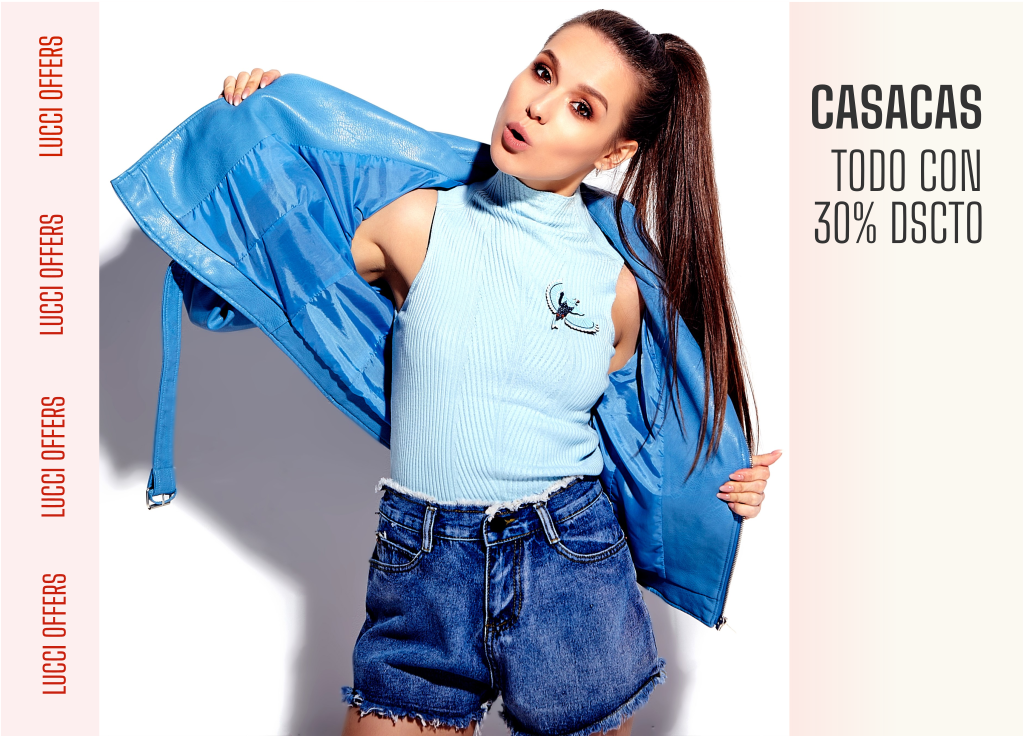
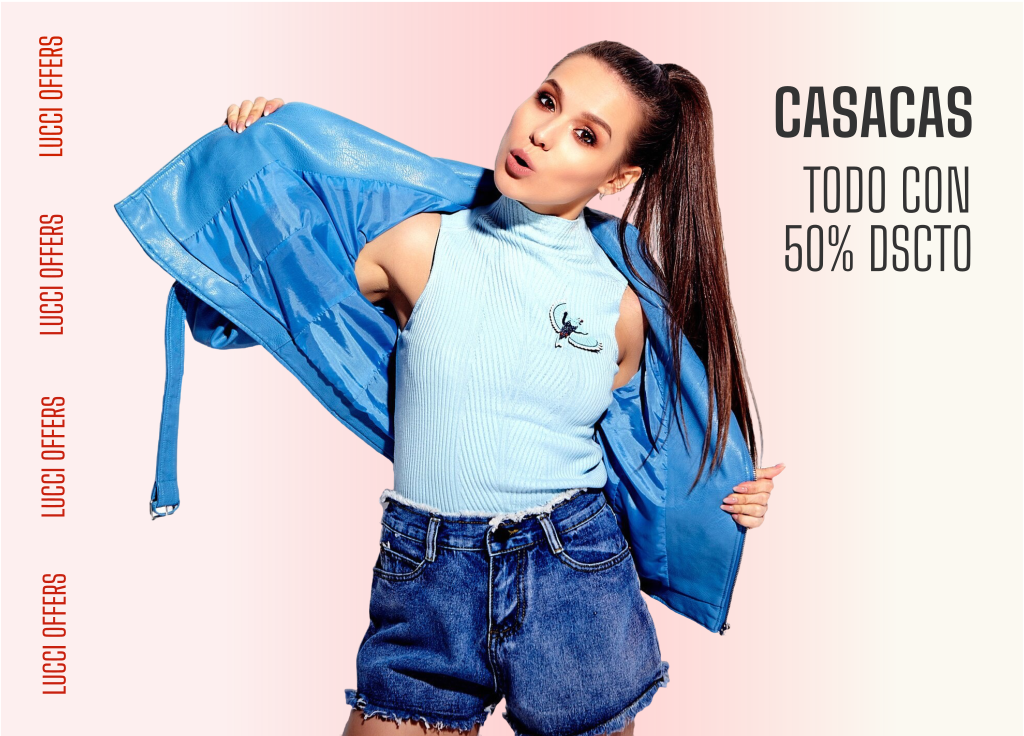
Add photos to Bento

diff --git a/src/components/ui/Bento.svelte b/src/components/ui/Bento.svelte
@@ -1,30 +1,21 @@
-<div class="container mx-auto p-4">
-    <div class="grid grid-cols-1 md:grid-cols-2 gap-4">
+<div class="container mx-auto py-4">
+    <div class="grid grid-cols-1 md:grid-cols-2 gap-2">
         <div class="overflow-hidden">
             <img src="/media/content/bento/banner-casacas-mujer.png" alt="Prenda 1"
-                 class="w-full h-96 object-contain">
+                 class="w-full h-auto object-cover">
         </div>
         <div class="overflow-hidden">
-            <img src="/media/content/bento/banner-casacas-mujer.png" alt="Prenda 1"
-                 class="w-full h-96 object-contain">
+            <img src="/media/content/bento/banner-jeans-mujer.png" alt="Prenda 1"
+                 class="w-full h-auto object-cover">
         </div>
         <div class="overflow-hidden">
-            <img src="/media/content/bento/banner-casacas-mujer.png" alt="Prenda 1"
-                 class="w-full h-96 object-contain">
+            <img src="/media/content/bento/banner-chompas-mujer.png" alt="Prenda 1"
+                 class="w-full h-auto object-cover">
         </div>
         <div class="overflow-hidden">
-            <img src="/media/content/bento/banner-casacas-mujer.png" alt="Prenda 1"
-                 class="w-full h-96 object-contain">
+            <img src="/media/content/bento/banner-faldas-mujer.png" alt="Prenda 1"
+                 class="w-full h-auto object-cover">
         </div>
-        <!-- Agrega más prendas según sea necesario -->
+
     </div>
 </div>
-
-<style>
-    .gallery-img {
-        width: 100%;
-        height: auto; /* Ajustar automáticamente la altura */
-        max-height: 300px; /* Establecer un límite máximo de altura */
-        object-fit: contain; /* Asegurar que la imagen no se recorte */
-    }
-</style>

diff --git a/src/routes/+page.svelte b/src/routes/+page.svelte
@@ -3,6 +3,7 @@
     import WhatsappLogo from "../components/ui/WhatsappLogo.svelte";
     import Marquee from "../components/ui/Marquee.svelte";
     import Bento from "../components/ui/Bento.svelte";
+    import Heading from "../components/ui/Heading.svelte";
 </script>
 <svelte:head>
     <title>Lucci ¡La mejor tienda online de ropa!</title>
@@ -11,14 +12,14 @@
 <Carousel/>
 
 <section>
-    <h2 class="font-poppins text-2xl text-center m-4 font-medium">Comenzaron las mejores ofertas</h2>
+    <Heading texto="Comenzaron las mejores ofertas"/>
+    <Bento/>
 </section>
 
-<Bento/>
-
 <Marquee/>
-<div class="fixed right-4 bottom-4">
+
+<aside class="fixed right-4 bottom-4">
     <a href="https://wa.me/#" target="_blank" class="btn btn-circle btn-success btn-md bg-[#00E676]">
         <WhatsappLogo/>
     </a>
-</div>
+</aside>

diff --git a/src/components/ui/Marquee.svelte b/src/components/ui/Marquee.svelte
@@ -21,7 +21,7 @@
     });
 </script>
 
-<div class="marquee">
+<section class="marquee">
     <div class="wrapper cyber_image__dsk">
         <div>SOLO HOY LUCCI OFFERS | 50% DSCTO. EN LA WEB</div>
         <div>SOLO HOY LUCCI OFFERS | 50% DSCTO. EN LA WEB</div>
@@ -36,7 +36,7 @@
         <div>SOLO HOY LUCCI OFFERS | 50% DSCTO. EN LA WEB</div>
         <div>SOLO HOY LUCCI OFFERS | 50% DSCTO. EN LA WEB</div>
     </div>
-</div>
+</section>
 
 <style>
     .marquee {

diff --git a/src/components/ui/Carousel.svelte b/src/components/ui/Carousel.svelte
@@ -1,4 +1,4 @@
-<div class="z-10 carousel w-full">
+<section class="z-10 carousel w-full">
     <div id="slide1" class="carousel-item relative w-full">
         <video autoplay muted loop class="max-w-full object-cover rounded-lg shadow-lg">
             <source src="/media/content/carousel/slide-1-desktop.webm" type="video/webm">
@@ -24,4 +24,4 @@
         </div>
     </div>
 
-</div>
+</section>

diff --git a/src/components/ui/Heading.svelte b/src/components/ui/Heading.svelte
@@ -1,0 +1,6 @@
+<script>
+    let {texto} = $props();
+
+</script>
+
+<h2 class="font-poppins text-2xl text-center pt-16 font-medium">{texto}</h2>
